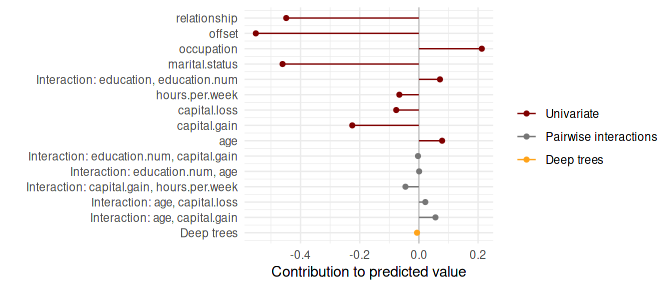
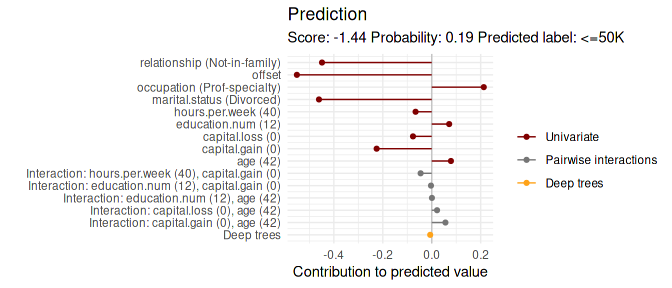
update README

diff --git a/README.md b/README.md
@@ -1,25 +1,6 @@
 
 <!-- README.md is generated from README.Rmd. Please edit that file -->
 
-    ## 
-    ## Attaching package: 'dplyr'
-
-    ## The following objects are masked from 'package:autocompboost':
-    ## 
-    ##     between, first, last, matches
-
-    ## The following object is masked from 'package:testthat':
-    ## 
-    ##     matches
-
-    ## The following objects are masked from 'package:stats':
-    ## 
-    ##     filter, lag
-
-    ## The following objects are masked from 'package:base':
-    ## 
-    ##     intersect, setdiff, setequal, union
-
 # autocompboost
 
 ### Use case
@@ -27,9 +8,9 @@
 ``` r
 # Use adult task from OpenML:
 task = tsk("oml", task_id = 7592)
-#> INFO  [10:48:04.023] Retrieving JSON {url: https://www.openml.org/api/v1/json/task/7592, authenticated: FALSE}
-#> INFO  [10:48:09.299] Retrieving JSON {url: https://www.openml.org/api/v1/json/data/1590, authenticated: FALSE}
-#> INFO  [10:48:09.378] Retrieving ARFF {url: https://www.openml.org/data/v1/download/1595261/adult.arff, authenticated: FALSE}
+#> INFO  [12:00:05.443] Retrieving JSON {url: https://www.openml.org/api/v1/json/task/7592, authenticated: FALSE}
+#> INFO  [12:00:05.749] Retrieving JSON {url: https://www.openml.org/api/v1/json/data/1590, authenticated: FALSE}
+#> INFO  [12:00:05.853] Retrieving ARFF {url: https://www.openml.org/data/v1/download/1595261/adult.arff, authenticated: FALSE}
 
 # Remove rows with missings:
 task$filter(which(complete.cases(task$data())))
@@ -37,8 +18,7 @@ task$filter(which(complete.cases(task$data())))
 # Train compboost learner:
 set.seed(31415)
 cboost = lrn("classif.compboost", predict_type = "prob", show_output = TRUE,
-  learning_rate_univariate = 0.01, learning_rate_interactions = 0.01,
-  learning_rate_deeper_interactions = 0.01, add_deeper_interactions = TRUE,
+  learning_rate = 0.01, add_deeper_interactions = TRUE,
   stop_epsylon_for_break = 0, stop_patience = 3L, df = 4)
 cboost$train(task)
 #>     1/50000   risk = 0.56  minutes = 0   oob_risk = 0.56   
@@ -53,7 +33,7 @@ cboost$train(task)
 #>     1/50000   risk = 0.36  minutes = 0   oob_risk = 0.35   
 #> 
 #> 
-#> Train 557 iterations in 13 Seconds.
+#> Train 557 iterations in 10 Seconds.
 #> Final risk based on the train set: 0.35
 #> 
 #> Start risk: 0.3533  test: 0.3413 
@@ -67,16 +47,16 @@ cboost$train(task)
 #> Tree 8: train risk: 0.3533 test risk: 0.3413 time: 0.03 Min. patience: 0
 #> Tree 9: train risk: 0.3533 test risk: 0.3413 time: 0.04 Min. patience: 0
 #> Tree 10: train risk: 0.3533 test risk: 0.3413 time: 0.04 Min. patience: 0
-#> Tree 11: train risk: 0.3533 test risk: 0.3413 time: 0.04 Min. patience: 0
+#> Tree 11: train risk: 0.3533 test risk: 0.3413 time: 0.05 Min. patience: 0
 #> Tree 12: train risk: 0.3533 test risk: 0.3413 time: 0.05 Min. patience: 0
-#> Tree 13: train risk: 0.3533 test risk: 0.3413 time: 0.06 Min. patience: 0
+#> Tree 13: train risk: 0.3533 test risk: 0.3413 time: 0.05 Min. patience: 0
 #> Tree 14: train risk: 0.3533 test risk: 0.3413 time: 0.06 Min. patience: 0
 #> Tree 15: train risk: 0.3533 test risk: 0.3413 time: 0.06 Min. patience: 0
 #> Tree 16: train risk: 0.3533 test risk: 0.3413 time: 0.07 Min. patience: 0
 #> Tree 17: train risk: 0.3533 test risk: 0.3413 time: 0.07 Min. patience: 0
-#> Tree 18: train risk: 0.3533 test risk: 0.3413 time: 0.08 Min. patience: 0
+#> Tree 18: train risk: 0.3533 test risk: 0.3413 time: 0.07 Min. patience: 0
 #> Tree 19: train risk: 0.3533 test risk: 0.3413 time: 0.08 Min. patience: 0
-#> Tree 20: train risk: 0.3534 test risk: 0.3413 time: 0.09 Min. patience: 0
+#> Tree 20: train risk: 0.3534 test risk: 0.3413 time: 0.08 Min. patience: 0
 #> Tree 21: train risk: 0.3534 test risk: 0.3413 time: 0.09 Min. patience: 0
 #> Tree 22: train risk: 0.3534 test risk: 0.3413 time: 0.09 Min. patience: 0
 #> Tree 23: train risk: 0.3534 test risk: 0.3413 time: 0.1 Min. patience: 0
@@ -217,6 +197,28 @@ ggplot() +
 ``` r
 # "new observation"
 newdata = task$data()[1234,]
+newdata$class = NULL
+knitr::kable(t(newdata))
+```
+
+|                |                |
+| :------------- | :------------- |
+| age            | 42             |
+| capital.gain   | 0              |
+| capital.loss   | 0              |
+| education      | Assoc-acdm     |
+| education.num  | 12             |
+| fnlwgt         | 478373         |
+| hours.per.week | 40             |
+| marital.status | Divorced       |
+| native.country | United-States  |
+| occupation     | Prof-specialty |
+| race           | White          |
+| relationship   | Not-in-family  |
+| sex            | Female         |
+| workclass      | Private        |
+
+``` r
 
 p_uni = cboost$model$univariate$predictIndividual(newdata)
 p_int = cboost$model$interactions$predictIndividual(newdata)
@@ -244,12 +246,22 @@ flab = character(nrow(fidx))
 for (i in seq_len(nrow(fidx))) {
   feats = fnames[fidx[i, ]]
 
-  if (length(feats) > 2) {
+  if (length(feats) > 1) {
     df_char = data.frame(f = feats, n = nchar(feats))
     df_char = df_char[order(df_char$n, decreasing = TRUE), ]
     df_char$count = sapply(df_char$f, function(fn) sum(grepl(fn, df_char$f)))
     feats = df_char$f[df_char$count == 1]
   }
+  feats = vapply(feats, function(f) {
+    if (f %in% c("other", "offset")) return(f)
+
+    fval = newdata[[f]]
+    if (is.numeric(fval))
+      return(paste0(f, " (", round(fval, 2), ")"))
+    else
+      return(paste0(f, " (", fval, ")"))
+  }, character(1L))
+
   if (length(feats) == 2)
     flab[i] = paste0("Interaction: ", paste(feats, collapse = ", "))
   else
@@ -264,6 +276,13 @@ df_plt0 = df_plt %>%
   arrange(desc(stage)) %>%
   mutate(bl_num = seq_along(value))
 
+pred = sum(df_plt0$value)
+prob = 1 / (1 + exp(-pred))
+plabel = ifelse(prob > 0.5, task$positive, task$negative)
+
+title = "Prediction"
+subtitle = paste0("Score: ", round(pred, 2), " Probability: ", round(prob, 2), " Predicted label: ", plabel)
+
 ggplot(df_plt0, aes(x = value, y = bl_num, color = stage, fill = stage)) +
   geom_vline(xintercept = 0, color = "dark grey", alpha = 0.6) +
   geom_segment(aes(xend = 0, yend = bl_num)) +
@@ -275,7 +294,8 @@ ggplot(df_plt0, aes(x = value, y = bl_num, color = stage, fill = stage)) +
   ggsci::scale_color_uchicago() +
   #scale_y_reverse() +
   scale_y_continuous(labels = df_plt0$feat, breaks = df_plt0$bl_num) +
-  theme_minimal()
+  theme_minimal() +
+  ggtitle(title, subtitle)
 ```
 
 ![](README-figures/unnamed-chunk-8-1.png)<!-- -->
